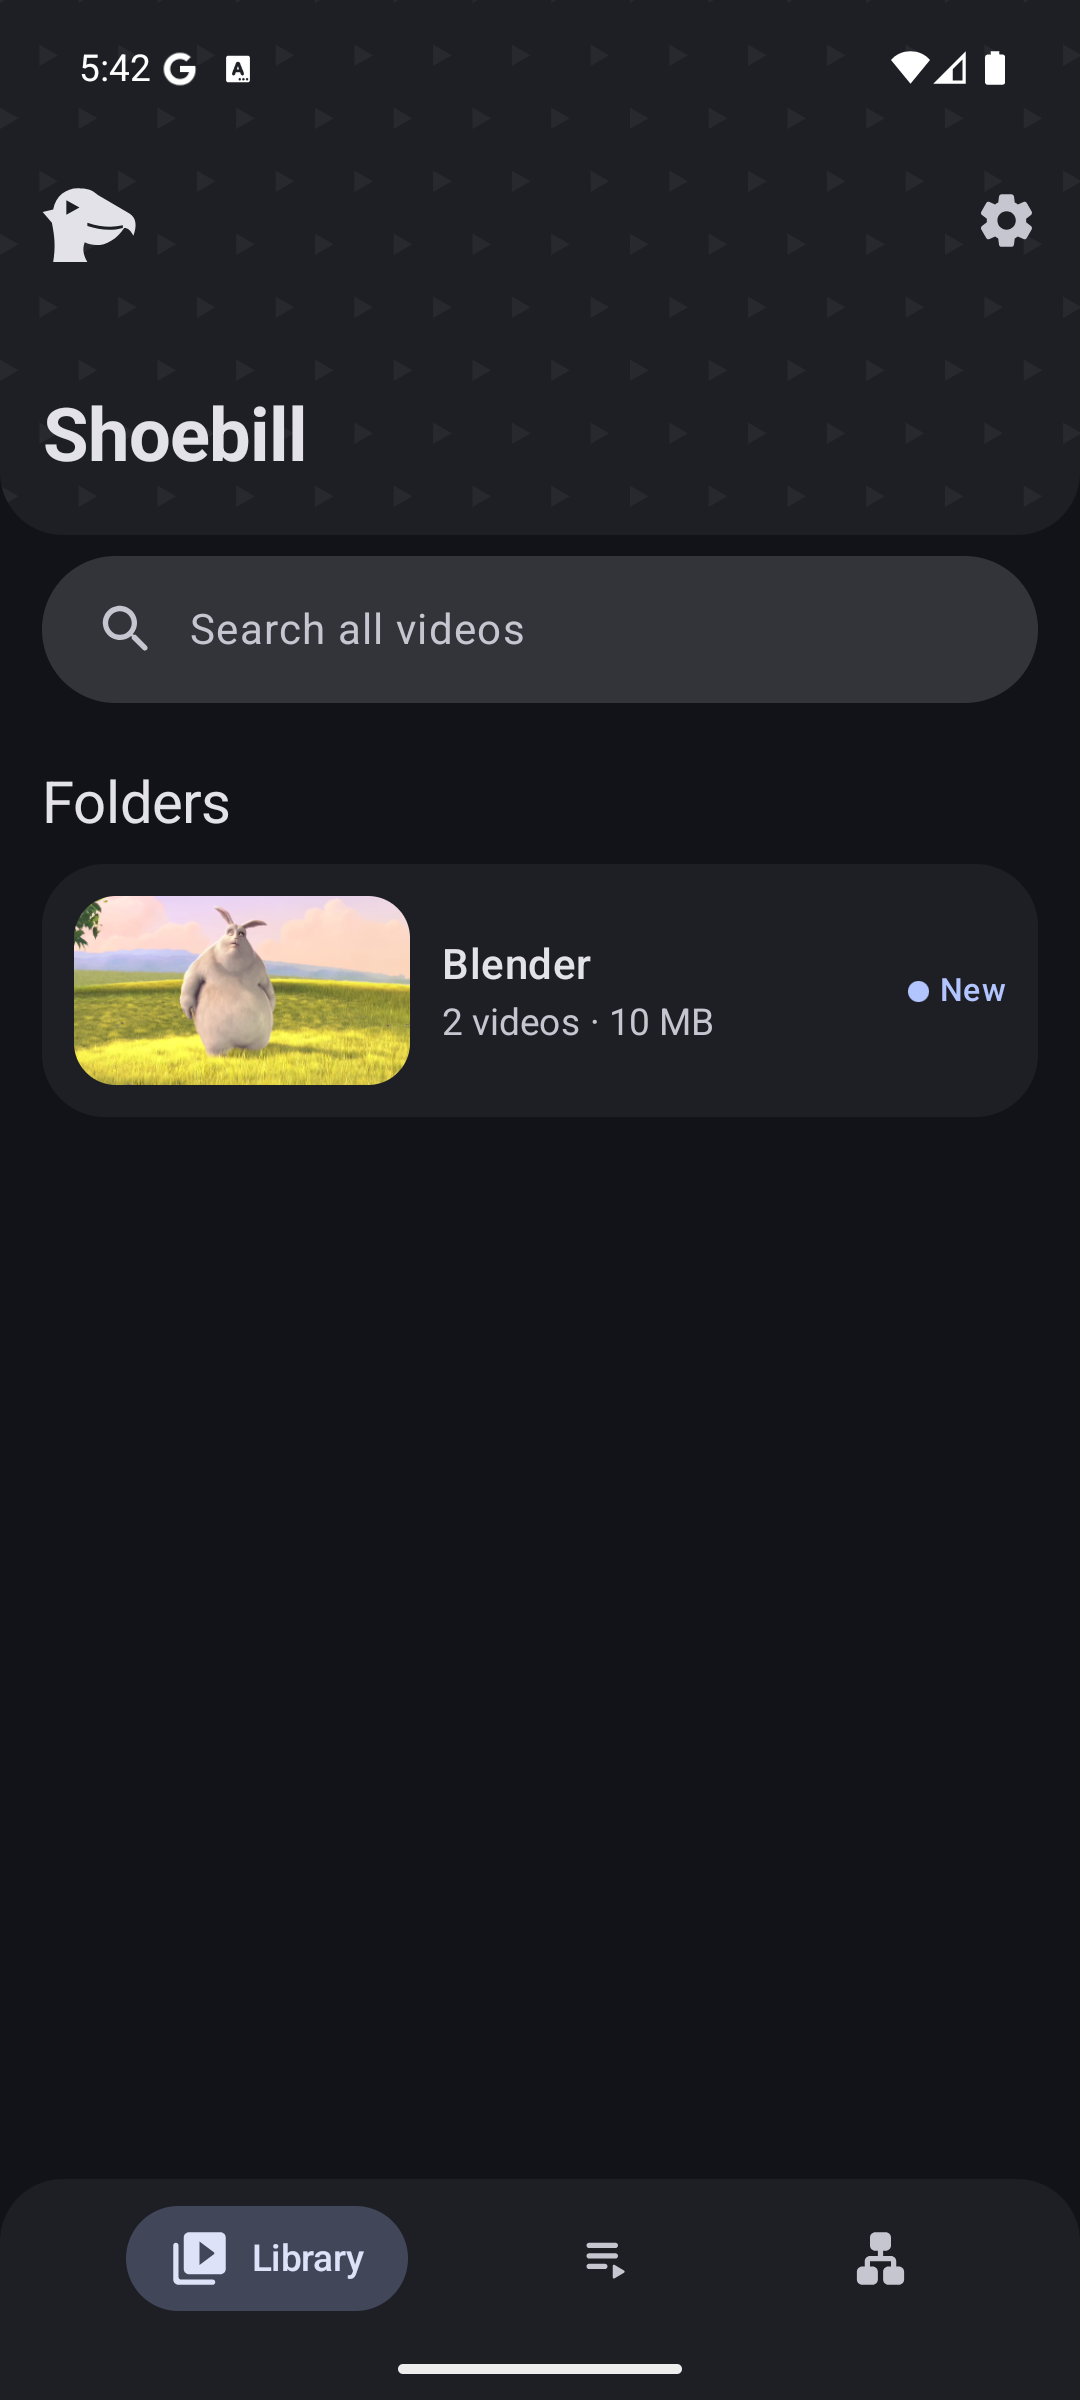
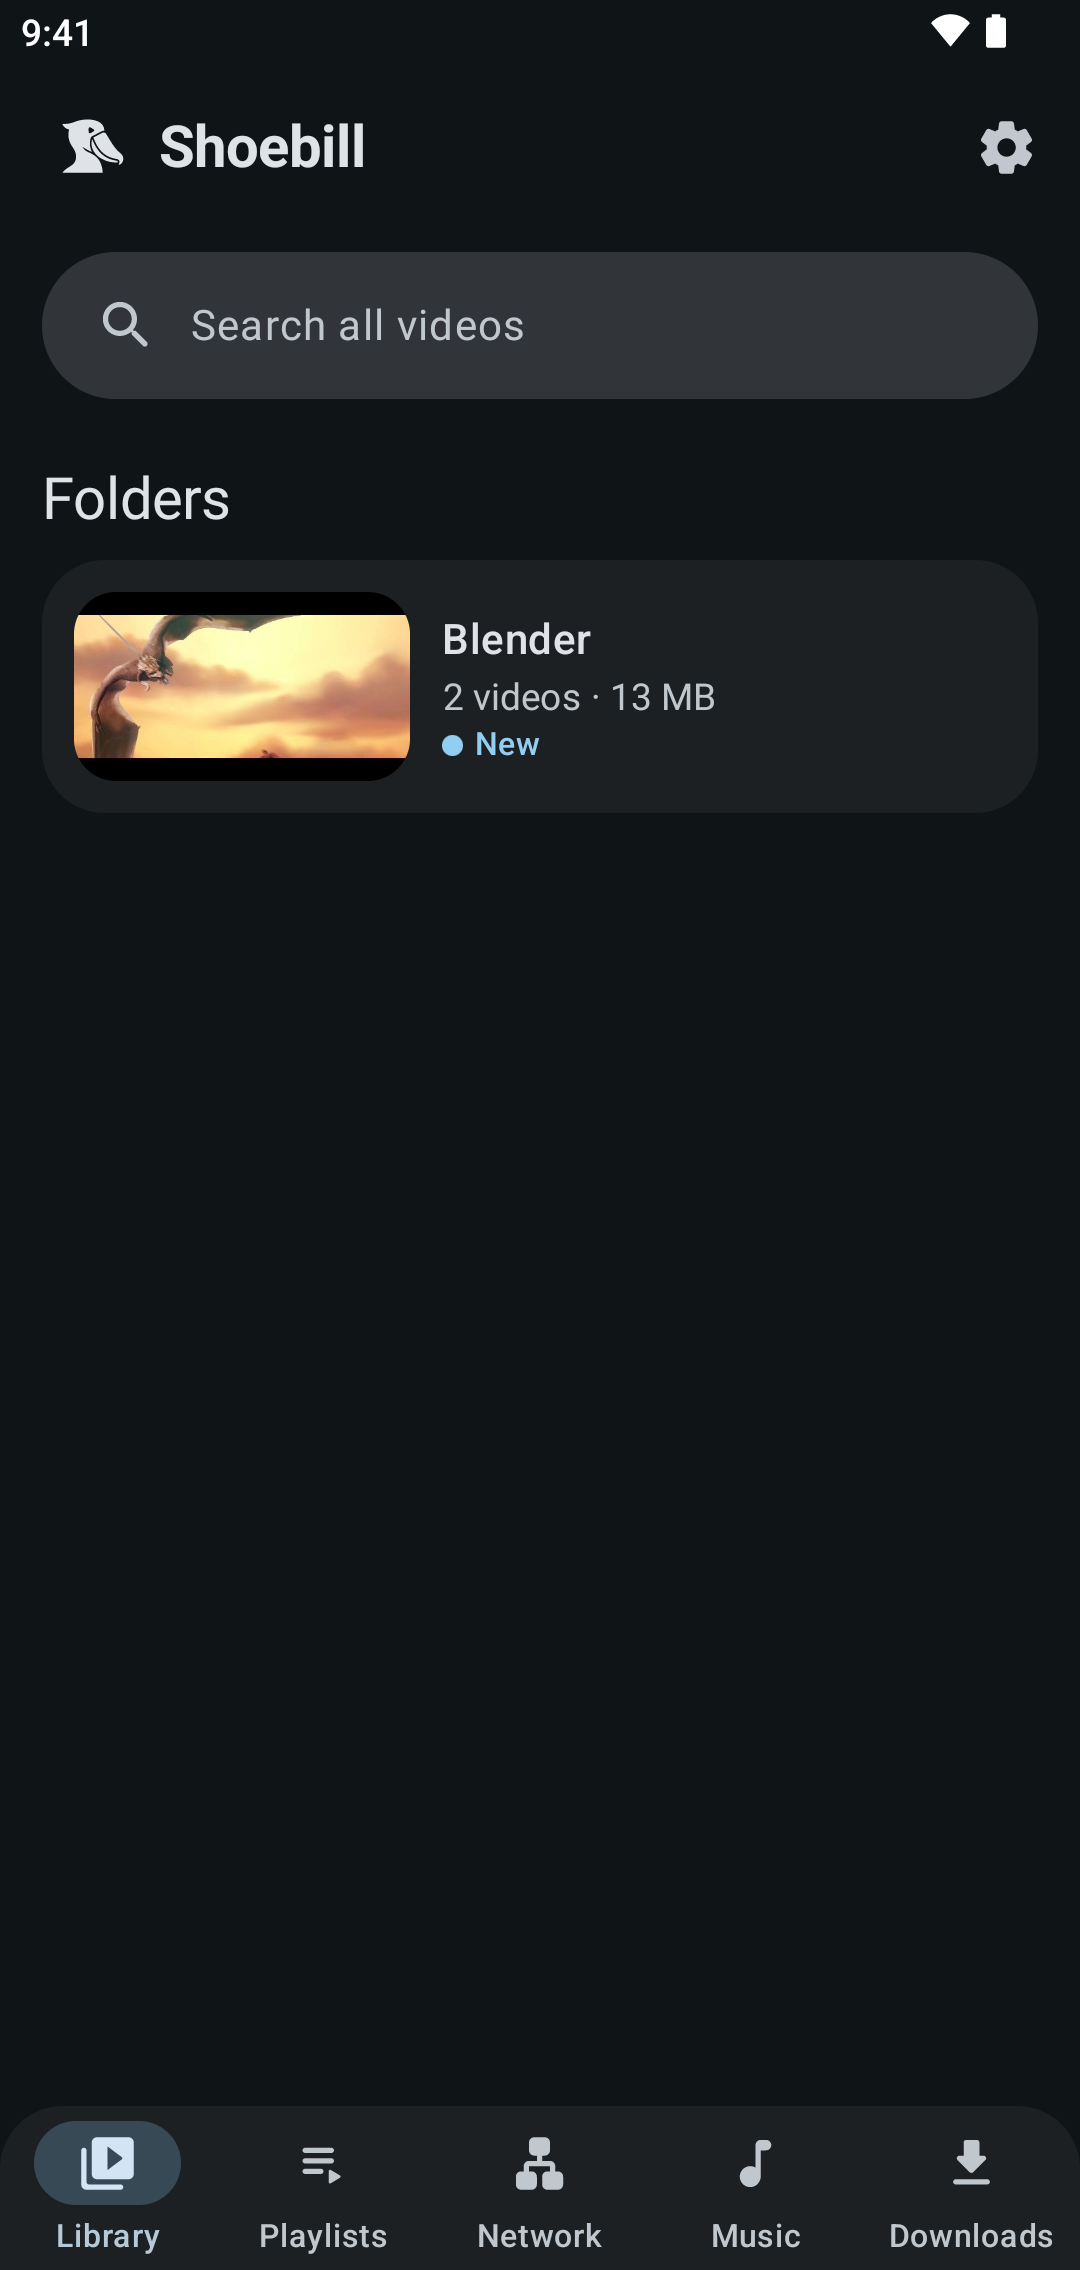
Update README and store screenshots for the new UI
README and store screenshots: new UI, music, downloader, subtitle options, help section

diff --git a/README.md b/README.md
@@ -24,12 +24,14 @@
 </p>
 
 <p align="center">
-  <img src="fastlane/metadata/android/en-US/images/phoneScreenshots/1.png" width="23%" alt="Home">
-  <img src="fastlane/metadata/android/en-US/images/phoneScreenshots/2.png" width="23%" alt="Folder">
+  <img src="fastlane/metadata/android/en-US/images/phoneScreenshots/1.png" width="23%" alt="Library">
+  <img src="fastlane/metadata/android/en-US/images/phoneScreenshots/2.png" width="23%" alt="Music">
+  <img src="fastlane/metadata/android/en-US/images/phoneScreenshots/3.png" width="23%" alt="Now playing">
+  <img src="fastlane/metadata/android/en-US/images/phoneScreenshots/6.png" width="23%" alt="Downloads">
 </p>
 <p align="center">
-  <img src="fastlane/metadata/android/en-US/images/phoneScreenshots/3.png" width="47%" alt="Player">
-  <img src="fastlane/metadata/android/en-US/images/phoneScreenshots/4.png" width="47%" alt="Subtitle style">
+  <img src="fastlane/metadata/android/en-US/images/phoneScreenshots/4.jpg" width="48%" alt="Player with Arabic subtitles in one box">
+  <img src="fastlane/metadata/android/en-US/images/phoneScreenshots/5.jpg" width="48%" alt="Subtitle style panel">
 </p>
 
 Sister app: [Hudhud Keyboard](https://github.com/altyb/hudhud).
@@ -49,12 +51,19 @@ Settings, or let it follow the phone.
 
 **Music**
 - Music tab: albums, artists, genres, playlists and a queue. The mini player sits in the tab bar and grows into the now-playing page.
+- Shuffle and repeat show clearly when they are on. Speed and the sleep timer are chips on the player page: tap to step to the next value.
 - Background playback with notification controls. Album art is cached.
+- Home-screen widget (title, previous, play/pause, next), a Quick Settings tile that plays and pauses, and a Music app shortcut.
 - Android Auto browsing. Written to the spec; not yet tried in a car.
 
 **Downloader** (GitHub build only; Google Play does not allow it)
-- Paste a link to download video or audio. Choose the format, download playlists, keep subtitles and thumbnails.
+- Paste a link to download video or audio from more than 1,700 sites (it uses yt-dlp). Choose the format, download playlists, keep subtitles and thumbnails.
+- One download runs at a time; the rest wait in the queue. Speed limit (500 KB/s to 5 MB/s) and a Wi-Fi only switch.
+- A notification when a download finishes, or fails with a Try again button.
 - Private mode, cookies for sites that need a login, proxy and speed limit. The downloader updates itself in the background.
+
+**Links into the app**
+- `shoebill://music` and `shoebill://downloads` open those tabs, `shoebill://play?url=<address>` plays a link, and `shoebill://download?url=<address>` opens the downloader with it filled in.
 
 **Network and TV**
 - Browse SMB, WebDAV, SFTP and FTP sources and play from them. Passwords are encrypted under a key in the phone's security chip. SFTP checks the host key on every connection.
@@ -67,7 +76,8 @@ Settings, or let it follow the phone.
 **Subtitles**
 - Search OpenSubtitles, SubDL and Jimaku (with your own free API keys).
 - Sync automatically from the audio (`.srt` files, audio your phone can decode). It changes nothing if it is not sure.
-- Style them: colour, size, outline, background box, bold, presets.
+- Style them: colour, size, outline, bold, presets, font. The background is one box around all the lines, or a box per line.
+- Arabic subtitles use a bundled Noto Naskh Arabic font, so word spacing looks the same on every phone, whatever its system font draws.
 - Drag a subtitle on screen to move it; pinch it to resize it. Manual timing sync.
 - Old Arabic `windows-1256` files are converted automatically.
 
@@ -91,6 +101,12 @@ Use the GitHub APK. The Google Play version cannot ask for "All files access", s
 files into the vault shows Android's delete dialog each time.
 
 **Installed a version before 0.4.0?** It will not update, because the app ID changed. In the old app open Vault settings and tap Back up. Install the new app, restore the file there, and check your files before removing the old one.
+
+## Help and bug reports
+
+[Open an issue](https://github.com/altyb/shoebill/issues/new/choose) and fill in the form: version, phone, and what happened.
+The app sends no crash reports, so your description is the only way I hear about a problem. For a security problem
+use [SECURITY.md](SECURITY.md) instead of a public issue.
 
 ## Privacy
 
@@ -139,6 +155,8 @@ Tests:
 - `cd library-tests && ./gradlew test` (library logic). GitHub Actions runs this plus a debug build on every push to main.
 - `qa/e2e.py`: end-to-end player checks on a device or emulator. `qa/make-media.sh` creates the test videos;
   build with `-PdevAbis=x86_64` for the emulator.
+- `qa/notif_e2e.py`: notifications and deep links. `qa/features_e2e.py`: music, settings and subtitle checks; it needs
+  test media that `qa/make-fixtures.sh` only partly creates, so some sections still fail on a fresh phone.
 
 ## Known limits
 
@@ -157,7 +175,9 @@ Much of this code was written with an AI coding assistant (Claude) under my dire
 
 - [mpv](https://mpv.io) and [FFmpeg](https://ffmpeg.org), through [libmpv-android](https://github.com/jarnedemeulemeester/libmpv-android).
 - [Tink](https://github.com/tink-crypto/tink-java) for encryption.
-- Screenshots show *Sintel* and *Big Buck Bunny* © Blender Foundation, [CC BY 3.0](https://creativecommons.org/licenses/by/3.0/).
+- [yt-dlp](https://github.com/yt-dlp/yt-dlp) for the downloader (full build).
+- [Noto Naskh Arabic](https://github.com/notofonts/arabic), SIL Open Font License 1.1, for Arabic subtitles.
+- Screenshots show *Sintel* and *Big Buck Bunny* © Blender Foundation, [CC BY 3.0](https://creativecommons.org/licenses/by/3.0/). The Arabic subtitle, songs and covers in them are made for the screenshots.
 
 ## License
 

diff --git a/CHANGELOG.md b/CHANGELOG.md
@@ -1,5 +1,8 @@
 # Changelog
 
+## Unreleased
+Notifications for finished and failed downloads, with a Try again button. `shoebill://` links open the Music and Downloads tabs, play a link, or start a download. Music: a home-screen widget, a Quick Settings tile, a video playback notification, clearer shuffle and repeat, a play/pause animation, and speed and sleep-timer chips on the player page. Subtitles: one background box around all lines (box per line is still a choice), a font choice, and a bundled Arabic font so word spacing no longer depends on the phone's font.
+
 ## 0.5.0 (2026-11-01)
 Music tab with album, artist and genre views, a queue and a mini player that grows into the now-playing page. Downloader in the GitHub build: paste a link, pick a format, playlists, subtitles, thumbnails and cookies. WebDAV, SFTP and FTP sources next to SMB. ReplayGain reads the loudness tags and only turns the volume down, never up. Android Auto browsing (written to the spec, not yet tried in a car). Chapter marks on the seek bar, deinterlace, picture controls and scale filters. Settings split into Video, Music, Downloads, General and About. New logo, loader and splash. Releases now ship one APK per CPU plus a universal one; the universal APK updates any earlier install.
 
